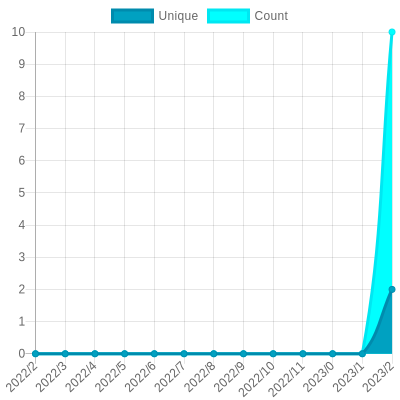
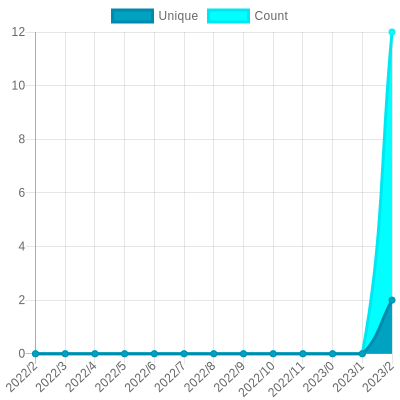
Update views

diff --git a/README.md b/README.md
@@ -42,7 +42,7 @@ The project created and maintained by [gayanvoice](https://github.com/gayanvoice
 			</a>
 		</td>
 		<td>
-			2022/2/28 12:35 PM UTC
+			2022/3/1 12:35 PM UTC
 		</td>
 		<td>
 			1
@@ -58,7 +58,7 @@ The project created and maintained by [gayanvoice](https://github.com/gayanvoice
 			</a>
 		</td>
 		<td>
-			2022/2/28 12:35 PM UTC
+			2022/3/1 12:35 PM UTC
 		</td>
 		<td>
 			1
@@ -74,7 +74,7 @@ The project created and maintained by [gayanvoice](https://github.com/gayanvoice
 			</a>
 		</td>
 		<td>
-			2022/2/28 12:35 PM UTC
+			2022/3/1 12:35 PM UTC
 		</td>
 		<td>
 			0
@@ -90,7 +90,7 @@ The project created and maintained by [gayanvoice](https://github.com/gayanvoice
 			</a>
 		</td>
 		<td>
-			2022/2/28 12:36 PM UTC
+			2022/3/1 12:36 PM UTC
 		</td>
 		<td>
 			0
@@ -106,7 +106,7 @@ The project created and maintained by [gayanvoice](https://github.com/gayanvoice
 			</a>
 		</td>
 		<td>
-			2022/2/28 12:36 PM UTC
+			2022/3/1 12:36 PM UTC
 		</td>
 		<td>
 			0
@@ -122,7 +122,7 @@ The project created and maintained by [gayanvoice](https://github.com/gayanvoice
 			</a>
 		</td>
 		<td>
-			2022/2/28 12:36 PM UTC
+			2022/3/1 12:36 PM UTC
 		</td>
 		<td>
 			0
@@ -138,7 +138,7 @@ The project created and maintained by [gayanvoice](https://github.com/gayanvoice
 			</a>
 		</td>
 		<td>
-			2022/2/28 12:36 PM UTC
+			2022/3/1 12:36 PM UTC
 		</td>
 		<td>
 			1
@@ -154,7 +154,7 @@ The project created and maintained by [gayanvoice](https://github.com/gayanvoice
 			</a>
 		</td>
 		<td>
-			2022/2/28 12:36 PM UTC
+			2022/3/1 12:36 PM UTC
 		</td>
 		<td>
 			1
@@ -170,7 +170,7 @@ The project created and maintained by [gayanvoice](https://github.com/gayanvoice
 			</a>
 		</td>
 		<td>
-			2022/2/28 12:37 PM UTC
+			2022/3/1 12:37 PM UTC
 		</td>
 		<td>
 			1
@@ -186,7 +186,7 @@ The project created and maintained by [gayanvoice](https://github.com/gayanvoice
 			</a>
 		</td>
 		<td>
-			2022/2/28 12:37 PM UTC
+			2022/3/1 12:37 PM UTC
 		</td>
 		<td>
 			0
@@ -202,7 +202,7 @@ The project created and maintained by [gayanvoice](https://github.com/gayanvoice
 			</a>
 		</td>
 		<td>
-			2022/2/28 12:37 PM UTC
+			2022/3/1 12:37 PM UTC
 		</td>
 		<td>
 			0
@@ -213,7 +213,7 @@ The project created and maintained by [gayanvoice](https://github.com/gayanvoice
 	</tr>
 </table>
 
-<small><i>Last updated on 2022/3/3 12:37 PM UTC</i></small>
+<small><i>Last updated on 2022/3/3 6:27 PM UTC</i></small>
 
 ## ✂Copy and 📋 Paste
 ### Total Views Badge

diff --git a/readme/465599727/year.md b/readme/465599727/year.md
@@ -26,7 +26,7 @@
 			<code>2</code>
 		</td>
 		<td>
-			<code>10</code>
+			<code>12</code>
 		</td>
 	</tr>
 	<tr>
@@ -164,7 +164,7 @@
 </table>
 
 </details>
-<small><i>Last updated on 2022/3/3 12:35 PM UTC</i></small>
+<small><i>Last updated on 2022/3/3 6:25 PM UTC</i></small>
 
 ## ✂Copy and 📋 Paste
 ### SVG Badge

diff --git a/readme/132236308/year.md b/readme/132236308/year.md
@@ -164,7 +164,7 @@
 </table>
 
 </details>
-<small><i>Last updated on 2022/3/3 12:35 PM UTC</i></small>
+<small><i>Last updated on 2022/3/3 6:25 PM UTC</i></small>
 
 ## ✂Copy and 📋 Paste
 ### SVG Badge

diff --git a/readme/136356159/year.md b/readme/136356159/year.md
@@ -164,7 +164,7 @@
 </table>
 
 </details>
-<small><i>Last updated on 2022/3/3 12:36 PM UTC</i></small>
+<small><i>Last updated on 2022/3/3 6:26 PM UTC</i></small>
 
 ## ✂Copy and 📋 Paste
 ### SVG Badge

diff --git a/readme/157060568/year.md b/readme/157060568/year.md
@@ -164,7 +164,7 @@
 </table>
 
 </details>
-<small><i>Last updated on 2022/3/3 12:35 PM UTC</i></small>
+<small><i>Last updated on 2022/3/3 6:25 PM UTC</i></small>
 
 ## ✂Copy and 📋 Paste
 ### SVG Badge

diff --git a/readme/163271509/year.md b/readme/163271509/year.md
@@ -164,7 +164,7 @@
 </table>
 
 </details>
-<small><i>Last updated on 2022/3/3 12:36 PM UTC</i></small>
+<small><i>Last updated on 2022/3/3 6:26 PM UTC</i></small>
 
 ## ✂Copy and 📋 Paste
 ### SVG Badge

diff --git a/readme/163410344/year.md b/readme/163410344/year.md
@@ -164,7 +164,7 @@
 </table>
 
 </details>
-<small><i>Last updated on 2022/3/3 12:36 PM UTC</i></small>
+<small><i>Last updated on 2022/3/3 6:26 PM UTC</i></small>
 
 ## ✂Copy and 📋 Paste
 ### SVG Badge

diff --git a/readme/193742235/year.md b/readme/193742235/year.md
@@ -164,7 +164,7 @@
 </table>
 
 </details>
-<small><i>Last updated on 2022/3/3 12:37 PM UTC</i></small>
+<small><i>Last updated on 2022/3/3 6:27 PM UTC</i></small>
 
 ## ✂Copy and 📋 Paste
 ### SVG Badge

diff --git a/readme/218572475/year.md b/readme/218572475/year.md
@@ -164,7 +164,7 @@
 </table>
 
 </details>
-<small><i>Last updated on 2022/3/3 12:36 PM UTC</i></small>
+<small><i>Last updated on 2022/3/3 6:26 PM UTC</i></small>
 
 ## ✂Copy and 📋 Paste
 ### SVG Badge

diff --git a/readme/228704425/year.md b/readme/228704425/year.md
@@ -164,7 +164,7 @@
 </table>
 
 </details>
-<small><i>Last updated on 2022/3/3 12:36 PM UTC</i></small>
+<small><i>Last updated on 2022/3/3 6:26 PM UTC</i></small>
 
 ## ✂Copy and 📋 Paste
 ### SVG Badge

diff --git a/readme/233854987/year.md b/readme/233854987/year.md
@@ -164,7 +164,7 @@
 </table>
 
 </details>
-<small><i>Last updated on 2022/3/3 12:35 PM UTC</i></small>
+<small><i>Last updated on 2022/3/3 6:25 PM UTC</i></small>
 
 ## ✂Copy and 📋 Paste
 ### SVG Badge

diff --git a/readme/286644586/year.md b/readme/286644586/year.md
@@ -164,7 +164,7 @@
 </table>
 
 </details>
-<small><i>Last updated on 2022/3/3 12:37 PM UTC</i></small>
+<small><i>Last updated on 2022/3/3 6:27 PM UTC</i></small>
 
 ## ✂Copy and 📋 Paste
 ### SVG Badge
